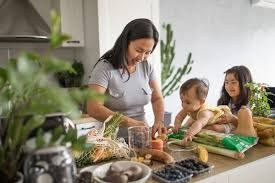
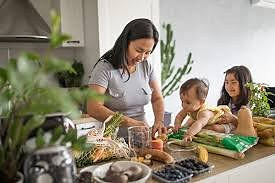
Sharpen website photos
- Re-export all photos from the original source files at higher JPEG
  quality with light sharpening (the first export recompressed them).
- Restore founder portraits to their full 900px width.
- Resize photo frames so no image is displayed larger than its native
  resolution on standard screens (the kitchen photo was stretched 2.4x).
  The "Who Amara is for" collage is now a staggered grid of frames sized
  to the photos; the story portrait and 1,000 days photo are capped at
  their native size.

Claude-Session: https://claude.ai/code/session_0169984jrpwjxcBSJytRpTHi

diff --git a/assets/css/styles.css b/assets/css/styles.css
@@ -301,16 +301,13 @@ p + p { margin-top: 1.1em; }
 .who-copy > p:not(.label) { color: var(--ink-soft); max-width: 34rem; }
 .who-copy .btn { margin-top: 36px; }
 .who-collage {
-  display: grid; grid-template-columns: repeat(12, 1fr); grid-template-rows: repeat(14, clamp(26px, 3vw, 40px));
-  position: relative;
+  /* Frames are sized to the photos' native resolution (~275px wide) so they stay sharp. */
+  display: grid; grid-template-columns: repeat(2, minmax(0, 275px)); gap: 18px; justify-content: end; align-content: center;
 }
-.who-collage figure { overflow: hidden; border-radius: 14px; }
+.who-collage figure { overflow: hidden; border-radius: 14px; aspect-ratio: 16 / 10; background: var(--sand); }
+.who-collage figure:nth-child(even) { transform: translateY(44px); }
 .who-collage img { width: 100%; height: 100%; object-fit: cover; }
-.collage-a { grid-column: 1 / 8; grid-row: 1 / 11; border-radius: var(--arch) !important; }
-.collage-b { grid-column: 8 / 13; grid-row: 2 / 6; margin-left: 16px; }
-.collage-c { grid-column: 8 / 13; grid-row: 7 / 12; margin-left: 16px; }
-.collage-d { grid-column: 3 / 9; grid-row: 10 / 15; border: 8px solid var(--cream); border-radius: 22px !important; z-index: 2; }
-.collage-c img { object-position: 70% 50%; }
+.collage-c img { object-position: 60% 40%; }
 
 .pantry {
   margin-top: clamp(80px, 10vw, 140px); padding-top: 40px; border-top: 2px solid var(--olive);
@@ -350,7 +347,7 @@ p + p { margin-top: 1.1em; }
   .js .timeline.is-visible .tl-bar { transform: none; }
 }
 
-.days-photo { margin-top: clamp(64px, 8vw, 112px); border-radius: 16px; overflow: hidden; max-width: 960px; }
+.days-photo { margin-top: clamp(64px, 8vw, 112px); border-radius: 16px; overflow: hidden; max-width: 900px; }
 .days-photo img { width: 100%; aspect-ratio: 900 / 299; object-fit: cover; }
 
 .pillar-rows {
@@ -397,7 +394,7 @@ p + p { margin-top: 1.1em; }
   position: relative; font-family: var(--serif); font-style: italic; font-size: clamp(1.6rem, 2.4vw, 2.1rem);
   line-height: 1.32; color: var(--olive);
 }
-.story-photo { margin-top: 48px; width: min(60%, 240px); aspect-ratio: 2 / 3; margin-left: auto; }
+.story-photo { margin-top: 48px; width: 183px; aspect-ratio: 183 / 275; margin-left: auto; }
 .story-photo img { width: 100%; height: 100%; object-fit: cover; object-position: 50% 30%; }
 
 /* ---------- Experience ---------- */
@@ -713,14 +710,13 @@ p + p { margin-top: 1.1em; }
   .mission-grid, .who-grid, .story-grid, .feature, .partners-grid, .founders-head { grid-template-columns: 1fr; }
   .feature-flora .feature-visual { order: 2; }
   .feature-visual { margin-top: 8px; }
-  .who-collage { max-width: 560px; }
+  .who-collage { justify-content: start; padding-bottom: 44px; }
   .pantry { grid-template-columns: 1fr; }
   .pantry .fine { grid-column: 1; }
   .pantry-list { grid-template-columns: repeat(2, 1fr); }
   .days-intro { justify-content: flex-start; }
   .pillar-rows, .days-foot { grid-template-columns: 1fr; }
   .story-aside { position: static; }
-  .story-photo { width: 70%; }
   .founder-grid { grid-template-columns: 1fr; max-width: 560px; }
   .founder-two { margin-top: 0; }
   .footer-grid { grid-template-columns: 1fr 1fr; }
@@ -743,7 +739,6 @@ p + p { margin-top: 1.1em; }
   .waitlist-row .btn { width: 100%; }
   .waitlist-row input { padding-left: 14px; }
   .footer-grid { grid-template-columns: 1fr; }
-  .collage-d { border-width: 5px; }
   .hero-phone .ui-flora, .hero-phone .ui-note, .hero-phone .ui-plate li:nth-child(3) { display: none; }
   .hero-phone .phone-sm { aspect-ratio: 9 / 13; }
   .hero-phone .ui-plate small { font-size: .85em; }

diff --git a/index.html b/index.html
@@ -470,7 +470,7 @@
     <div class="founder-grid">
       <article class="founder founder-one">
         <figure class="founder-photo img-reveal">
-          <img src="/assets/img/founder-juanita.jpg" alt="Portrait of Juanita Julius Ndyamukama" width="760" height="837" loading="lazy">
+          <img src="/assets/img/founder-juanita.jpg" alt="Portrait of Juanita Julius Ndyamukama" width="900" height="991" loading="lazy">
         </figure>
         <div class="founder-body reveal">
           <p class="founder-kitchen">East African food traditions</p>
@@ -482,7 +482,7 @@
 
       <article class="founder founder-two">
         <figure class="founder-photo img-reveal">
-          <img src="/assets/img/founder-erica.jpg" alt="Portrait of Erica Stephens" width="760" height="947" loading="lazy">
+          <img src="/assets/img/founder-erica.jpg" alt="Portrait of Erica Stephens" width="900" height="1122" loading="lazy">
         </figure>
         <div class="founder-body reveal">
           <p class="founder-kitchen">Black American Southern food traditions</p>
